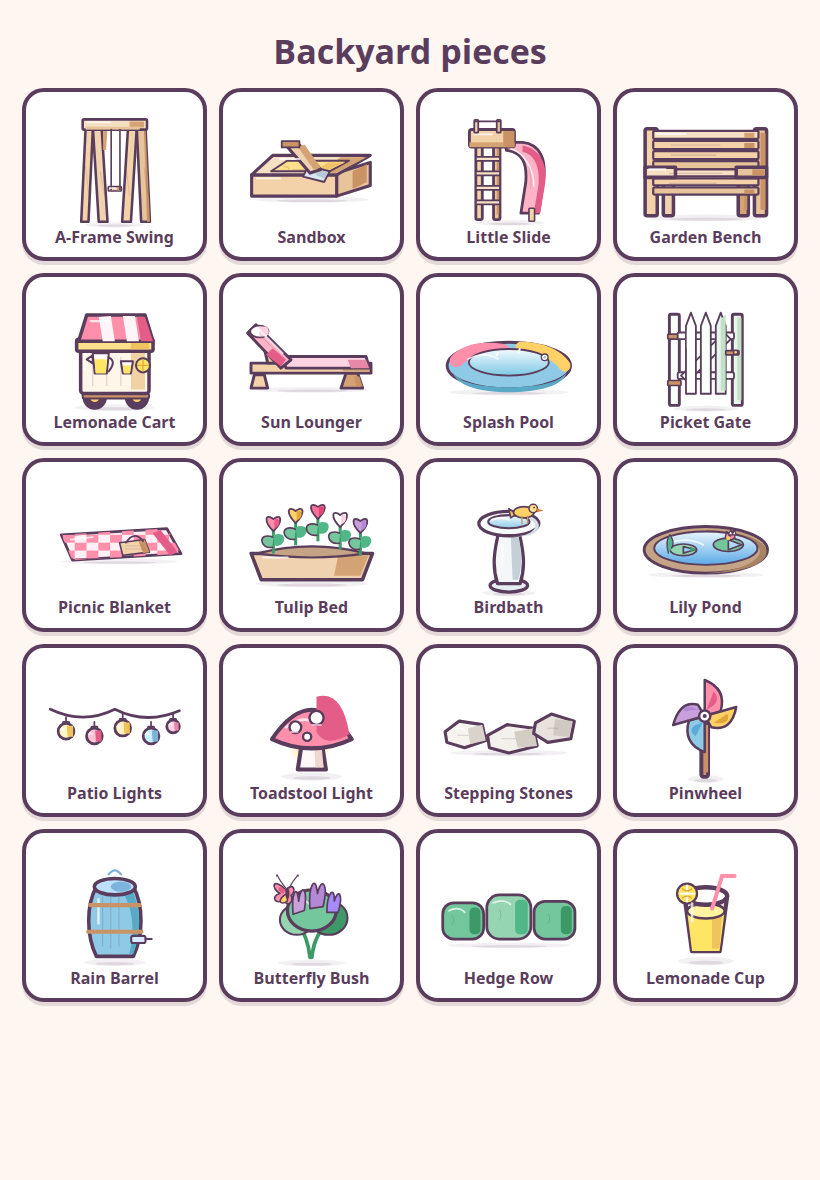
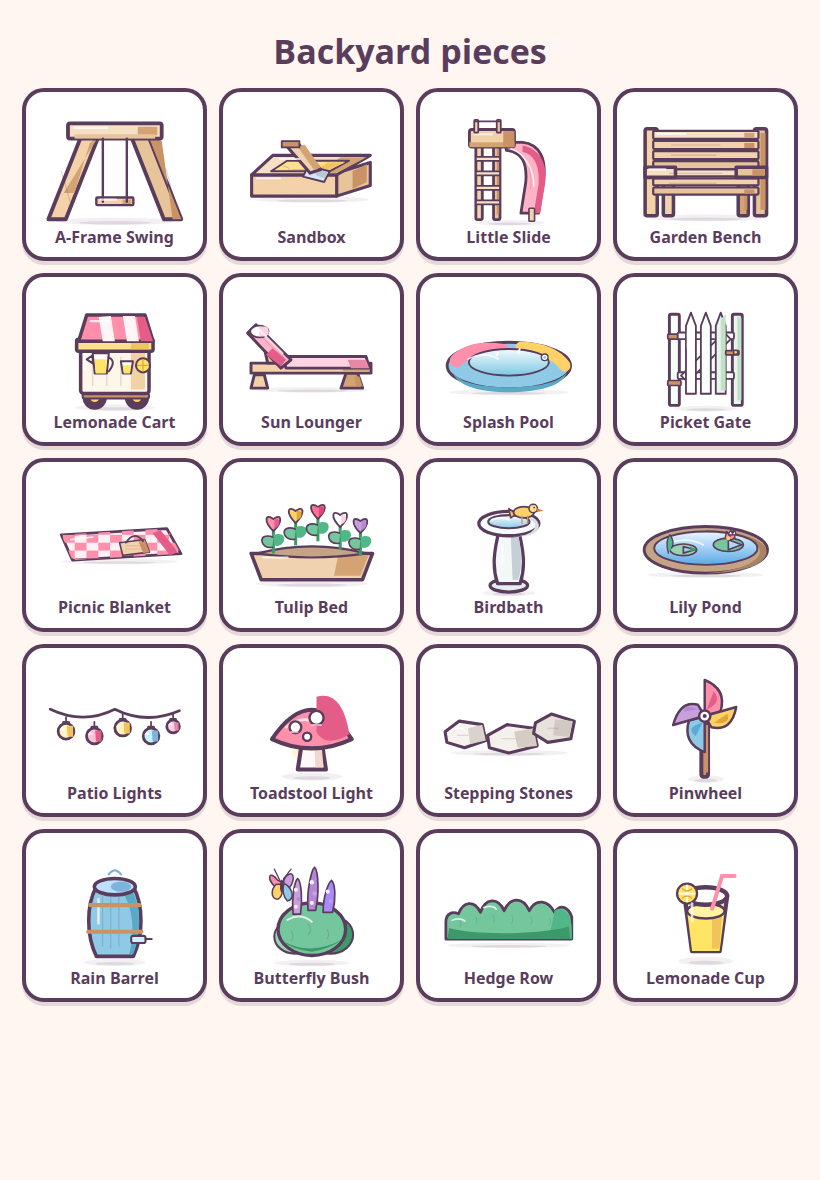
Make the swing a wide A and give the hedge and bush their shapes.
The swing is about 1.3 times as wide as it is tall, with splayed legs and a lower, wider seat. The hedge is one leafy row, and the butterfly bush is a round shrub with flower cones.

Changed region(s): [[0.061, 0.0915, 0.2134, 0.2136], [0.3049, 0.7322, 0.4268, 0.8237], [0.5183, 0.7322, 0.7012, 0.8237]]

diff --git a/src/yard.ts b/src/yard.ts
@@ -85,23 +85,21 @@ function piece(p: { kind: string; name: string; cat: string; w: number; h: numbe
 }
 
 const swing = piece({
-  kind: 'yard-swing', name: 'A-Frame Swing', cat: 'furniture', w: 96, h: 148, vb: '0 0 100 154',
-  svg: `${shadow(50, 40, 150)}
-    <path d="M10 18 L20 18 L14 146 H4 Z" fill="#f3d2aa" ${ink()}/>
-    <path d="M20 18 L32 18 L40 146 H28 Z" fill="#f0d2b0" ${ink()}/>
-    <path d="M34 22 L40 18 L38 48 H34 Z" fill="#d4a373"/>
-    <path d="M68 18 L80 18 L72 146 H60 Z" fill="#f3d2aa" ${ink()}/>
-    <path d="M80 18 L92 18 L98 146 H86 Z" fill="#e7c49a" ${ink()}/>
-    <path d="M90 22 L92 18 L98 146 H94 Z" fill="#c99366"/>
-    ${tex('M10 70 l4 36 M30 78 l6 32 M66 76 l4 34 M90 72 l5 36')}
-    <rect x="6" y="6" width="88" height="14" rx="2" fill="#f6e0c4" ${ink()}/>
-    <rect x="70" y="9" width="20" height="8" rx="1" fill="#d4a373"/>
-    <rect x="10" y="16" width="74" height="4" fill="#e7c49a"/>
-    ${hi('M12 10 h32')}
-    <rect x="41" y="98" width="18" height="6" rx="1" fill="#f3d2aa" ${ink(2.2)}/>
-    <rect x="53" y="99" width="5" height="4" fill="#d4a373"/>
-    <path d="M45 20 V102 M57 20 V102" fill="none" ${ink(2.2)}/>
-    ${hi('M43 100 h8')}`,
+  kind: 'yard-swing', name: 'A-Frame Swing', cat: 'furniture', w: 96, h: 74, vb: '0 0 130 100',
+  svg: `${shadow(65, 54, 96)}
+    <path d="M34 18 L50 18 L20 94 H4 Z" fill="#f3d2aa" ${ink()}/>
+    <path d="M42 24 L50 18 L18 70 H28 Z" fill="#d4a373"/>
+    <path d="M80 18 L96 18 L126 94 H110 Z" fill="#e7c49a" ${ink()}/>
+    <path d="M108 22 L96 18 L126 94 H118 Z" fill="#c99366"/>
+    ${tex('M16 50 l8 28 M112 48 l8 30')}
+    <rect x="22" y="6" width="86" height="14" rx="2" fill="#f6e0c4" ${ink()}/>
+    <rect x="86" y="9" width="18" height="8" rx="1" fill="#d4a373"/>
+    <rect x="28" y="16" width="74" height="4" fill="#e7c49a"/>
+    ${hi('M28 10 h30')}
+    <rect x="48" y="74" width="34" height="7" rx="1" fill="#f3d2aa" ${ink(2.2)}/>
+    <rect x="72" y="76" width="8" height="4" fill="#d4a373"/>
+    <path d="M54 20 V78 M76 20 V78" fill="none" ${ink(2.2)}/>
+    ${hi('M52 76 h14')}`,
 });
 
 const sandbox = piece({
@@ -422,36 +420,36 @@ const barrel = piece({
 
 const bush = piece({
   kind: 'butterfly-bush', name: 'Butterfly Bush', cat: 'plants', w: 120, h: 130, vb: '0 0 100 120',
-  svg: `${shadow(50, 36, 114)}
-    <path d="M48 108 C46 88 40 78 34 70" fill="none" stroke="#3d9a68" stroke-width="4" stroke-linecap="round"/>
-    <path d="M50 108 C52 86 62 76 70 66" fill="none" stroke="#3d9a68" stroke-width="4" stroke-linecap="round"/>
-    <ellipse cx="34" cy="68" rx="18" ry="16" fill="#95d5b2" ${ink(2.2)}/>
-    <ellipse cx="68" cy="66" rx="20" ry="18" fill="#3d9a68" ${ink(2.2)}/>
-    <ellipse cx="50" cy="58" rx="26" ry="22" fill="#74c69d" ${ink()}/>
-    ${hi('M30 50 q12 -6 18 2')}
-    <path d="M30 62 C28 40 34 28 36 48 C38 30 46 32 42 58 Z" fill="#c9a0dc" ${ink(1.8)}/>
-    <path d="M48 56 C46 32 54 18 56 40 C60 22 68 28 62 54 Z" fill="#b388d6" ${ink(1.8)}/>
-    <path d="M66 60 C66 40 74 30 74 48 C78 34 84 40 78 60 Z" fill="#a78bfa" ${ink(1.8)}/>
-    <path d="M22 36 C8 22 6 34 16 40 C6 42 10 54 22 46 C20 54 32 52 28 42 C34 36 30 28 22 36 Z" fill="#ff8fab" ${ink(1.8)}/>
-    <path d="M22 36 C10 28 14 40 20 40 Z" fill="#e45d88"/>
-    <path d="M24 40 C12 46 16 54 24 48 Z" fill="#ffd166" ${ink(1.6)}/>
-    <ellipse cx="24" cy="40" rx="2.2" ry="6" fill="${O}"/>
-    <path d="M22 34 Q16 26 14 22 M26 34 Q30 26 34 22" fill="none" stroke="${O}" stroke-width="1.3" stroke-linecap="round"/>
-    <circle cx="13" cy="21" r="1.2" fill="${O}"/><circle cx="35" cy="21" r="1.2" fill="${O}"/>`,
+  svg: `${shadow(50, 40, 114)}
+    <ellipse cx="32" cy="86" rx="22" ry="18" fill="#95d5b2" ${ink(2.2)}/>
+    <ellipse cx="70" cy="84" rx="24" ry="20" fill="#3d9a68" ${ink(2.2)}/>
+    <ellipse cx="50" cy="78" rx="36" ry="28" fill="#74c69d" ${ink()}/>
+    <path d="M18 90 Q50 108 84 88 Q68 100 50 102 Q30 100 18 90 Z" fill="#3d9a68"/>
+    ${hi('M24 68 q14 -8 26 2')}
+    ${tex('M28 80 q4 6 0 10 M46 72 q5 8 0 12 M66 78 q4 6 0 10')}
+    <path d="M30 62 C28 44 32 26 35 24 C39 28 40 46 38 62 Z" fill="#c9a0dc" ${ink(1.8)}/>
+    <circle cx="33" cy="36" r="2.2" fill="#f7ecff"/><circle cx="36" cy="46" r="2.2" fill="#b388d6"/><circle cx="33" cy="54" r="2" fill="#f7ecff"/>
+    <path d="M46 58 C44 36 50 14 53 12 C57 16 58 40 54 58 Z" fill="#b388d6" ${ink(1.8)}/>
+    <circle cx="50" cy="28" r="2.4" fill="#f7ecff"/><circle cx="53" cy="40" r="2.4" fill="#c9a0dc"/><circle cx="50" cy="50" r="2.2" fill="#f7ecff"/>
+    <path d="M62 60 C62 42 68 28 71 26 C75 30 76 46 72 60 Z" fill="#a78bfa" ${ink(1.8)}/>
+    <circle cx="67" cy="38" r="2.2" fill="#f7ecff"/><circle cx="70" cy="48" r="2" fill="#c9a0dc"/>
+    <path d="M14 26 C4 14 2 24 10 32 C14 36 18 32 18 28 Z" fill="#ff8fab" ${ink(1.6)}/>
+    <path d="M20 24 C30 12 34 24 26 34 C22 38 20 30 20 26 Z" fill="#c9a0dc" ${ink(1.6)}/>
+    <path d="M12 30 C6 36 6 46 14 46 C18 44 20 36 18 30 Z" fill="#ffd166" ${ink(1.6)}/>
+    <path d="M22 30 C30 36 32 46 24 48 C20 44 18 36 20 30 Z" fill="#8ecae6" ${ink(1.6)}/>
+    <ellipse cx="18" cy="32" rx="2" ry="7" fill="${O}"/>
+    <path d="M16 26 Q12 18 10 14 M20 26 Q24 18 28 14" fill="none" stroke="${O}" stroke-width="1.3" stroke-linecap="round"/>`,
 });
 
 const hedge = piece({
   kind: 'hedge-row', name: 'Hedge Row', cat: 'plants', w: 190, h: 96, vb: '0 0 180 96',
   svg: `${shadow(90, 78, 90)}
-    <rect x="6" y="36" width="52" height="46" rx="14" fill="#74c69d" ${ink()}/>
-    <rect x="40" y="42" width="14" height="34" rx="6" fill="#3d9a68"/>
-    <rect x="62" y="26" width="56" height="56" rx="16" fill="#95d5b2" ${ink()}/>
-    <rect x="98" y="32" width="16" height="44" rx="6" fill="#52b788"/>
-    <rect x="122" y="34" width="52" height="48" rx="14" fill="#74c69d" ${ink()}/>
-    <rect x="156" y="40" width="14" height="36" rx="6" fill="#3d9a68"/>
-    ${tex('M18 52 q4 6 0 12 M78 44 q4 8 0 14 M140 50 q4 6 0 12')}
-    ${hi('M14 46 q12 -6 20 2')}
-    ${hi('M70 36 q14 -6 22 2')}`,
+    <path d="M10 82 L10 60 C10 50 18 46 26 50 C32 34 46 32 54 48 C60 30 76 28 84 46 C92 28 108 28 116 46 C124 30 140 32 148 48 C156 36 166 42 170 54 L170 82 Z" fill="#74c69d" ${ink()}/>
+    <path d="M148 46 C160 38 170 50 170 70 L170 82 L140 82 L146 58 Z" fill="#52b788"/>
+    <path d="M14 68 C48 78 132 76 166 66 L168 82 L12 82 Z" fill="#3d9a68"/>
+    ${tex('M28 58 q3 5 0 8 M48 54 q3 6 0 9 M70 52 q3 6 1 9 M94 52 q3 6 0 10 M118 54 q3 6 0 9 M142 56 q3 5 0 8')}
+    ${hi('M18 58 q10 -4 16 1')}
+    ${hi('M58 42 q12 -4 16 2')}`,
 });
 
 const cup = piece({
